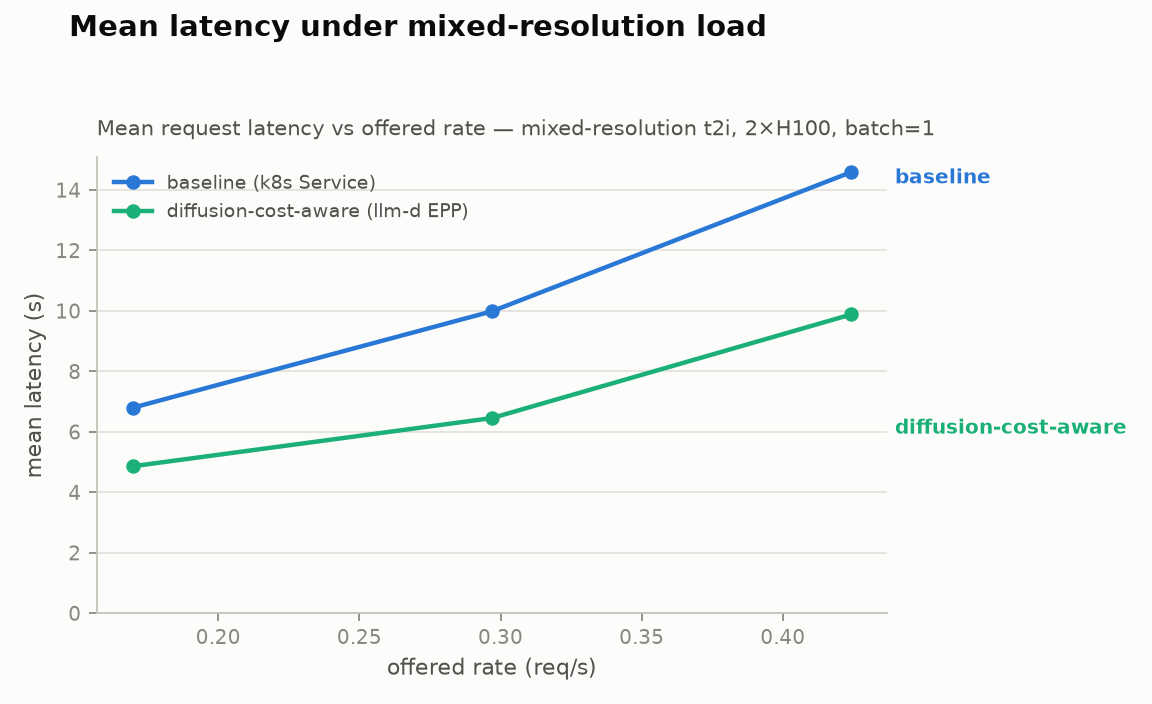
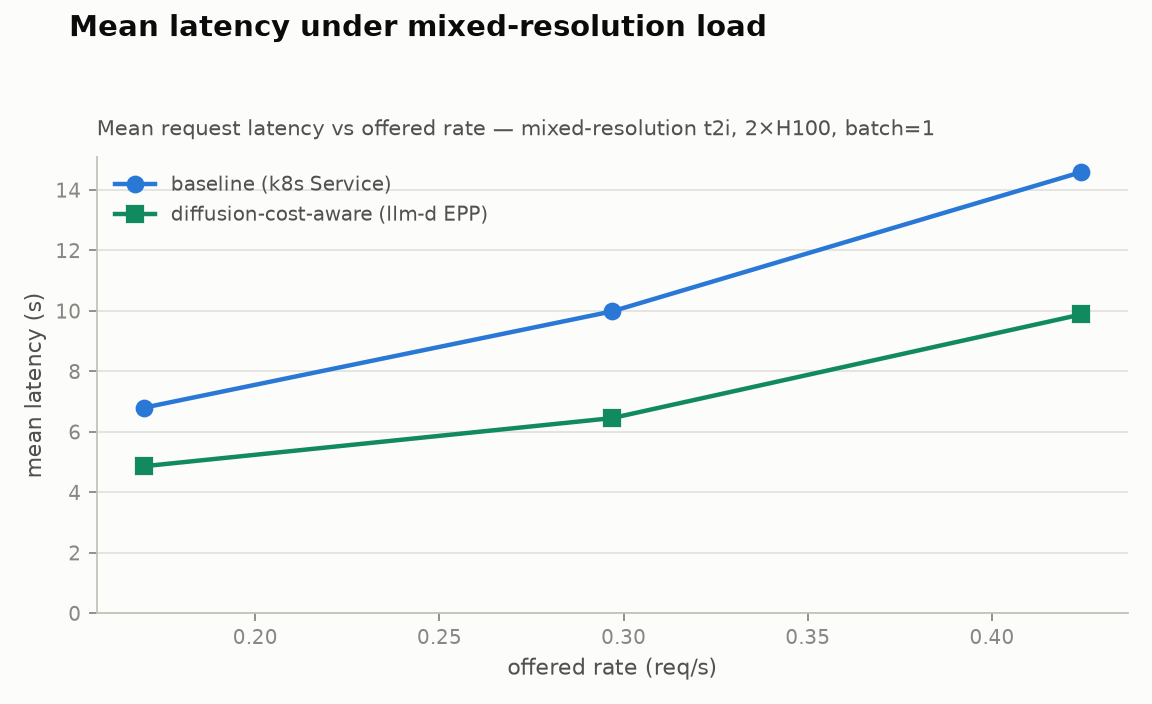
Simplify benchmark figures to two plain latency charts
Linear-scale p99 and mean latency lines with distinct markers per arm;
drop the min-max bands, end-point labels, log scale, and the per-pod
queue-depth figure (the timeseries stays in the raw CSVs).

diff --git a/guides/diffusion-serving/analysis/plot_results.py b/guides/diffusion-serving/analysis/plot_results.py
@@ -3,16 +3,14 @@
 
 Usage: python analysis/plot_results.py [results_dir]
 
-Reads results/<arm>/rate<frac>_rep<rep>.json (bench aggregates), the matching
-.meta files (offered rate, taint flag) and .csv files (per-pod queue-depth
-timeseries), and writes three figures into <results_dir>/figures/:
+Reads results/<arm>/rate<frac>_rep<rep>.json (bench aggregates) and the
+matching .meta files (offered rate, taint flag), and writes two figures into
+<results_dir>/figures/:
 
-  1_p99_latency.png    — p99 latency vs offered rate, log-y (the money plot)
+  1_p99_latency.png    — p99 latency vs offered rate (the money plot)
   2_mean_latency.png   — mean latency vs offered rate
-  3_queue_depth.png    — per-pod queue depth timeseries at the highest common
-                         rate, one panel per arm
 
-Multiple reps: solid line = median, shaded band = min-max.
+Multiple reps: the line is the median over untainted reps.
 """
 
 import json
@@ -23,7 +21,6 @@ from pathlib import Path
 
 import matplotlib.pyplot as plt
 import numpy as np
-from matplotlib.ticker import MaxNLocator
 
 # --- palette (reference dataviz palette, light mode) -------------------------
 SURFACE = "#fcfcfb"
@@ -32,14 +29,14 @@ INK_2 = "#52514e"
 MUTED = "#898781"
 GRID = "#e1e0d9"
 BASELINE = "#c3c2b7"
-# Arms = categorical identity, fixed slot order (blue, aqua).
-ARM_COLOR = {"baseline": "#2a78d6", "cost-aware": "#1baf7a"}
+# Arms = categorical identity, fixed slot order (blue, green); marker shape is
+# the secondary (non-color) encoding.
+ARM_COLOR = {"baseline": "#2a78d6", "cost-aware": "#128a5f"}
+ARM_MARKER = {"baseline": "o", "cost-aware": "s"}
 ARM_LABEL = {
     "baseline": "baseline (k8s Service)",
     "cost-aware": "diffusion-cost-aware (llm-d EPP)",
 }
-# Pods in the small multiples = one hue, stepped shades (blue 250/450/650).
-POD_SHADES = ["#86b6ef", "#2a78d6", "#104281"]
 
 FNAME_RE = re.compile(r"rate([0-9.]+)_rep(\d+)\.json$")
 
@@ -94,33 +91,6 @@ def series(data, arm, key):
     return np.array(rates), np.array(med), np.array(lo), np.array(hi)
 
 
-def direct_labels(ax, ends):
-    """Label each line at its end point, nudging collisions apart vertically.
-
-    ends: [(x, y, arm)] in data coords; y-collisions are resolved in axes
-    fraction space so it works on both linear and log axes.
-    """
-    to_frac = ax.transAxes.inverted().transform
-    to_disp = ax.transData.transform
-    labeled = sorted(ends, key=lambda e: to_frac(to_disp((e[0], e[1])))[1])
-    prev = None
-    for x, y, arm in labeled:
-        fy = to_frac(to_disp((x, y)))[1]
-        if prev is not None and fy - prev < 0.05:
-            fy = prev + 0.05
-        prev = fy
-        ax.annotate(
-            ARM_LABEL[arm].split(" (")[0],
-            (x, y),
-            xytext=(1.01, fy),
-            textcoords=ax.transAxes,
-            color=ARM_COLOR[arm],
-            fontsize=9,
-            fontweight="bold",
-            va="center",
-        )
-
-
 def new_fig(title, subtitle):
     fig, ax = plt.subplots(figsize=(7.2, 4.4), dpi=160)
     fig.patch.set_facecolor(SURFACE)
@@ -130,25 +100,18 @@ def new_fig(title, subtitle):
     return fig, ax
 
 
-def _plot_latency(data, outdir: Path, key, fname, title, subtitle, ylabel, log=False):
+def _plot_latency(data, outdir: Path, key, fname, title, subtitle, ylabel):
     fig, ax = new_fig(title, subtitle)
-    if log:
-        ax.set_yscale("log")
-    ends = []
     for arm in [a for a in ("baseline", "cost-aware") if a in data]:
-        rates, med, lo, hi = series(data, arm, key)
+        rates, med, _, _ = series(data, arm, key)
         if not len(rates):
             continue
-        ax.fill_between(rates, lo, hi, color=ARM_COLOR[arm], alpha=0.12, linewidth=0)
-        ax.plot(rates, med, color=ARM_COLOR[arm], linewidth=2, marker="o",
-                markersize=5.5, label=ARM_LABEL[arm])
-        ends.append((rates[-1], med[-1], arm))
-    direct_labels(ax, ends)
+        ax.plot(rates, med, color=ARM_COLOR[arm], linewidth=2,
+                marker=ARM_MARKER[arm], markersize=7, label=ARM_LABEL[arm])
     ax.set_xlabel("offered rate (req/s)", color=INK_2, fontsize=10)
     ax.set_ylabel(ylabel, color=INK_2, fontsize=10)
-    if not log:
-        ax.set_ylim(bottom=0)
-    ax.legend(frameon=False, fontsize=8.5, labelcolor=INK_2, loc="upper left")
+    ax.set_ylim(bottom=0)
+    ax.legend(frameon=False, fontsize=9, labelcolor=INK_2, loc="upper left")
     fig.tight_layout(rect=(0, 0, 1, 0.94))
     fig.savefig(outdir / fname, facecolor=SURFACE)
     plt.close(fig)
@@ -167,8 +130,8 @@ def plot_p99(data, outdir: Path, pool: str = "H100 pool"):
     _plot_latency(
         data, outdir, "latency_p99", "1_p99_latency.png",
         "Cost-aware routing cuts tail latency",
-        f"p99 request latency vs offered rate (log scale) — mixed-resolution t2i, {pool}, batch=1",
-        "p99 latency (s)", log=True,
+        f"p99 request latency vs offered rate — mixed-resolution t2i, {pool}, batch=1",
+        "p99 latency (s)",
     )
 
 
@@ -181,55 +144,6 @@ def plot_mean(data, outdir: Path, pool: str = "H100 pool"):
     )
 
 
-def plot_queues(data, results_dir: Path, outdir: Path):
-    arms = [a for a in ("baseline", "cost-aware") if a in data]
-    if not arms:
-        return
-    common = set.intersection(*(set(data[a]) for a in arms))
-    if not common:
-        return
-    rate = max(common)
-    fig, axes = plt.subplots(len(arms), 1, figsize=(7.2, 1.9 * len(arms) + 1.2),
-                             dpi=160, sharex=True)
-    fig.patch.set_facecolor(SURFACE)
-    axes = np.atleast_1d(axes)
-    fig.suptitle("Per-pod backlog: does routing keep the pods evenly busy?",
-                 x=0.06, ha="left", fontsize=13, fontweight="bold", color=INK)
-    for ax, arm in zip(axes, arms):
-        style_axes(ax)
-        rep, _, _ = sorted(data[arm][rate])[0]
-        # Recover the file-name fraction for this offered rate.
-        csvs = [c for c in (results_dir / arm).glob(f"rate*_rep{rep}.csv")
-                if _meta_rate(c.with_suffix(".meta")) == rate]
-        if not csvs:
-            ax.set_visible(False)
-            continue
-        rows = [ln.split(",") for ln in csvs[0].read_text().splitlines()[1:] if ln]
-        pods = sorted({r[1] for r in rows})
-        t0 = min(float(r[0]) for r in rows)
-        for i, pod in enumerate(pods[: len(POD_SHADES)]):
-            pts = [(float(r[0]) - t0, float(r[2]) + float(r[3])) for r in rows if r[1] == pod]
-            xs, ys = zip(*pts)
-            ax.plot(xs, ys, color=POD_SHADES[i], linewidth=2, label=f"pod {i}")
-        ax.set_ylabel("in-flight + queued", color=INK_2, fontsize=8.5)
-        ax.yaxis.set_major_locator(MaxNLocator(integer=True))
-        ax.set_title(f"{ARM_LABEL[arm]}  ·  {rate:g} req/s", loc="left",
-                     fontsize=9.5, color=INK_2)
-        if ax is axes[0]:
-            ax.legend(frameon=False, fontsize=8.5, labelcolor=INK_2, loc="upper left")
-    axes[-1].set_xlabel("time since sweep start (s)", color=INK_2, fontsize=10)
-    fig.tight_layout(rect=(0, 0, 1, 0.95))
-    fig.savefig(outdir / "3_queue_depth.png", facecolor=SURFACE)
-    plt.close(fig)
-
-
-def _meta_rate(meta: Path):
-    if not meta.exists():
-        return None
-    m = re.search(r"\brate=([0-9.]+)", meta.read_text())
-    return float(m.group(1)) if m else None
-
-
 def main() -> None:
     results_dir = Path(sys.argv[1]) if len(sys.argv) > 1 else Path(__file__).parent.parent / "results"
     data = load(results_dir)
@@ -240,7 +154,6 @@ def main() -> None:
     pool = pool_desc(results_dir)
     plot_p99(data, outdir, pool)
     plot_mean(data, outdir, pool)
-    plot_queues(data, results_dir, outdir)
     print(f"figures written to {outdir}/")
     for arm in data:
         rates = sorted(data[arm])

diff --git a/guides/diffusion-serving/analysis/generate_report.py b/guides/diffusion-serving/analysis/generate_report.py
@@ -3,7 +3,7 @@
 
 Usage: python analysis/generate_report.py [results_dir]
 
-Renders the three figures (via plot_results.py) and writes a self-contained
+Renders the two figures (via plot_results.py) and writes a self-contained
 markdown report with:
   - run configuration (calibration, capacity)
   - headline latency comparison (p99/mean A vs B per rate, with reductions)
@@ -78,7 +78,6 @@ def main() -> None:
     pool = plot_results.pool_desc(results_dir)
     plot_results.plot_p99(data, outdir, pool)
     plot_results.plot_mean(data, outdir, pool)
-    plot_results.plot_queues(data, results_dir, outdir)
 
     # Calibration lives at the results/ root (shared across runs); a run dir
     # sits one level below it.
@@ -151,7 +150,6 @@ def main() -> None:
         md += [f"## {plot_results.ARM_LABEL.get(arm, arm)}", "", arm_table(data, arm), ""]
 
     md += [
-        "![per-pod backlog](figures/3_queue_depth.png)",
         "",
         "## Notes",
         "",

diff --git a/guides/diffusion-serving/results/quick-dataset-c-20260714-2337/REPORT.md b/guides/diffusion-serving/results/quick-dataset-c-20260714-2337/REPORT.md
@@ -1,11 +1,11 @@
 # Cost-aware routing benchmark — report
 
-Generated 2026-07-15 00:00 UTC. Workload: **dataset_c.json** (mixed-resolution t2i, see `workloads/`). Pool: 3×H100 running `Qwen/Qwen-Image`, batch=1. Run: `preset=quick workload=dataset_c.json replicas=3 started=2026-07-14T23:37:48+00:00`.
+Generated 2026-07-16 19:21 UTC. Workload: **dataset_c.json** (mixed-resolution t2i, see `workloads/`). Pool: 3×H100 running `Qwen/Qwen-Image`, batch=1. Run: `preset=quick workload=dataset_c.json replicas=3 started=2026-07-14T23:37:48+00:00`.
 
 | arm | routing policy |
 |---|---|
-| A | A · baseline (k8s Service) |
-| B | B · cost-aware scorer |
+| baseline | baseline (k8s Service) |
+| cost-aware | diffusion-cost-aware (llm-d EPP) |
 
 ## Calibration
 
@@ -23,7 +23,7 @@ Mixed mean service time S_mix = **4.71 s** → 3-pod capacity ≈ **0.636 req/s*
 Median over repetitions; both arms replay the identical request
 sequence and arrival timeline, so rows are directly comparable.
 
-| offered rate (req/s) | p99 A → B (s) | p99 reduction | mean A → B (s) | mean reduction |
+| offered rate (req/s) | p99 baseline → cost-aware (s) | p99 reduction | mean baseline → cost-aware (s) | mean reduction |
 |---|---|---|---|---|
 | 0.2545 | 27.5 → 14.7 | **46%** | 6.0 → 4.4 | 26% |
 | 0.4454 | 24.7 → 16.8 | **32%** | 6.9 → 5.4 | 22% |
@@ -33,7 +33,7 @@ sequence and arrival timeline, so rows are directly comparable.
 
 ![mean latency vs offered rate](figures/2_mean_latency.png)
 
-## Arm A — A · baseline (k8s Service)
+## baseline (k8s Service)
 
 | offered rate (req/s) | reps | p99 latency s (median) | p95 latency s | mean latency s | throughput req/s | failed | tainted |
 |---|---|---|---|---|---|---|---|
@@ -41,7 +41,7 @@ sequence and arrival timeline, so rows are directly comparable.
 | 0.4454 | 1 | 24.7 | 18.6 | 6.9 | 0.441 |  |  |
 | 0.6363 | 1 | 32.0 | 25.1 | 13.0 | 0.543 |  |  |
 
-## Arm B — B · cost-aware scorer
+## diffusion-cost-aware (llm-d EPP)
 
 | offered rate (req/s) | reps | p99 latency s (median) | p95 latency s | mean latency s | throughput req/s | failed | tainted |
 |---|---|---|---|---|---|---|---|
@@ -49,7 +49,6 @@ sequence and arrival timeline, so rows are directly comparable.
 | 0.4454 | 1 | 16.8 | 14.4 | 5.4 | 0.460 |  |  |
 | 0.6363 | 1 | 22.9 | 17.9 | 7.4 | 0.614 |  |  |
 
-![per-pod backlog](figures/3_queue_depth.png)
 
 ## Notes
 

diff --git a/guides/diffusion-serving/README.md b/guides/diffusion-serving/README.md
@@ -74,12 +74,9 @@ The cost-aware numbers include the EPP/ext-proc hop that the baseline doesn't pa
 Load-aware routing usually does **not** raise peak throughput — the wins to
 look for are:
 
-- **p99 latency vs offered rate** (the money plot, log scale): tail latency
-  is where cost-blind routing hurts — short requests stuck behind whales.
+- **p99 latency vs offered rate** (the money plot): tail latency is where
+  cost-blind routing hurts — short requests stuck behind whales.
 - **Mean latency vs offered rate**: the average user experience.
-- **Per-pod backlog evenness** (`vllm_omni:num_requests_running+waiting`
-  timeseries): the baseline shows one pod piling up work while the other
-  idles; cost-aware routing should keep the lines close.
 
 The load generator is vLLM-Omni's own
 `benchmarks/diffusion/diffusion_benchmark_serving.py` (latency percentiles
@@ -167,8 +164,6 @@ Dataset C:
 
 ![mean latency vs offered rate, dataset C](results/quick-3rep-dataset-c/figures/2_mean_latency.png)
 
-![per-pod backlog, dataset C](results/quick-3rep-dataset-c/figures/3_queue_depth.png)
-
 Bimodal:
 
 | offered rate (req/s) | p99 baseline → cost-aware (s) | p99 reduction | mean baseline → cost-aware (s) | mean reduction |
@@ -180,8 +175,6 @@ Bimodal:
 ![p99 latency vs offered rate, bimodal](results/bimodal-quick-1/figures/1_p99_latency.png)
 
 ![mean latency vs offered rate, bimodal](results/bimodal-quick-1/figures/2_mean_latency.png)
-
-![per-pod backlog, bimodal](results/bimodal-quick-1/figures/3_queue_depth.png)
 
 At 100% of capacity on Dataset C the p99s converge: at saturation every pod is always busy, so there is no routing freedom left — the mean is still 11% better. On the bimodal mix cost-aware routing also sustains 16% more goodput at the highest rate (0.601 vs 0.517 req/s), because random routing wastes capacity when whole pods idle behind a whale pileup.
 

diff --git a/guides/diffusion-serving/BENCHMARK_REPORT.md b/guides/diffusion-serving/BENCHMARK_REPORT.md
@@ -114,8 +114,6 @@ The following data compares the two routing policies across increasing offered r
 
 ![mean latency vs offered rate, dataset C](results/quick-3rep-dataset-c/figures/2_mean_latency.png)
 
-![per-pod backlog, dataset C](results/quick-3rep-dataset-c/figures/3_queue_depth.png)
-
 ### Bimodal (thumbnails + whales, worst case for cost-blind routing)
 
 | Metric | Routing | 0.25 req/s | 0.45 req/s | 0.64 req/s |
@@ -133,8 +131,6 @@ The following data compares the two routing policies across increasing offered r
 
 ![mean latency vs offered rate, bimodal](results/bimodal-quick-1/figures/2_mean_latency.png)
 
-![per-pod backlog, bimodal](results/bimodal-quick-1/figures/3_queue_depth.png)
-
 ## Technical Conclusion
 
 1. Tail latency (P99)
@@ -143,7 +139,7 @@ Observation: Cost-aware routing cuts P99 latency by 23-37% on Dataset C below ca
 
 2. Mean latency
 
-Observation: Mean latency improves 11-40% on Dataset C and 35-43% on bimodal. The mechanism is visible in the per-pod backlog timeseries: with random routing one pod occasionally stacks several large requests while another drains empty; the cost-aware scorer keeps the per-pod backlog lines close together.
+Observation: Mean latency improves 11-40% on Dataset C and 35-43% on bimodal. The mechanism is visible in the per-pod backlog timeseries recorded in the raw results (`.csv` per point): with random routing one pod occasionally stacks several large requests while another drains empty; the cost-aware scorer keeps the per-pod backlogs close together.
 
 3. Throughput
 

diff --git a/guides/diffusion-serving/results/bimodal-quick-1/REPORT.md b/guides/diffusion-serving/results/bimodal-quick-1/REPORT.md
@@ -1,6 +1,6 @@
 # Cost-aware routing benchmark — report
 
-Generated 2026-07-16 19:02 UTC. Workload: **dataset_bimodal.json** (mixed-resolution t2i, see `workloads/`). Pool: 3×H100 running `Qwen/Qwen-Image`, batch=1. Run: `preset=quick workload=dataset_bimodal.json replicas=3 started=2026-07-15T00:20:45+00:00`.
+Generated 2026-07-16 19:20 UTC. Workload: **dataset_bimodal.json** (mixed-resolution t2i, see `workloads/`). Pool: 3×H100 running `Qwen/Qwen-Image`, batch=1. Run: `preset=quick workload=dataset_bimodal.json replicas=3 started=2026-07-15T00:20:45+00:00`.
 
 | arm | routing policy |
 |---|---|
@@ -49,7 +49,6 @@ sequence and arrival timeline, so rows are directly comparable.
 | 0.4454 | 1 | 20.4 | 19.7 | 4.9 | 0.438 |  |  |
 | 0.6363 | 1 | 21.7 | 20.1 | 5.5 | 0.601 |  |  |
 
-![per-pod backlog](figures/3_queue_depth.png)
 
 ## Notes
 

diff --git a/guides/diffusion-serving/results/quick-3rep-dataset-c/REPORT.md b/guides/diffusion-serving/results/quick-3rep-dataset-c/REPORT.md
@@ -1,6 +1,6 @@
 # Cost-aware routing benchmark — report
 
-Generated 2026-07-16 19:02 UTC. Workload: **dataset_c.json** (mixed-resolution t2i, see `workloads/`). Pool: 3×H100 running `Qwen/Qwen-Image`, batch=1. Run: `preset=quick workload=dataset_c.json replicas=3 started=2026-07-14T22:00:00+00:00`.
+Generated 2026-07-16 19:20 UTC. Workload: **dataset_c.json** (mixed-resolution t2i, see `workloads/`). Pool: 3×H100 running `Qwen/Qwen-Image`, batch=1. Run: `preset=quick workload=dataset_c.json replicas=3 started=2026-07-14T22:00:00+00:00`.
 
 | arm | routing policy |
 |---|---|
@@ -49,7 +49,6 @@ sequence and arrival timeline, so rows are directly comparable.
 | 0.4454 | 1 | 17.0 | 14.2 | 5.3 | 0.460 |  |  |
 | 0.6363 | 1 | 21.3 | 17.9 | 7.7 | 0.614 |  |  |
 
-![per-pod backlog](figures/3_queue_depth.png)
 
 ## Notes
 

diff --git a/guides/diffusion-serving/results/2rep/REPORT.md b/guides/diffusion-serving/results/2rep/REPORT.md
@@ -1,6 +1,6 @@
 # Cost-aware routing benchmark — report
 
-Generated 2026-07-16 19:11 UTC. Workload: **dataset_c.json** (mixed-resolution t2i, see `workloads/`). Pool: 2×H100 running `Qwen/Qwen-Image`, batch=1.
+Generated 2026-07-16 19:20 UTC. Workload: **dataset_c.json** (mixed-resolution t2i, see `workloads/`). Pool: 2×H100 running `Qwen/Qwen-Image`, batch=1.
 
 | arm | routing policy |
 |---|---|
@@ -49,7 +49,6 @@ sequence and arrival timeline, so rows are directly comparable.
 | 0.2969 | 1 | 23.5 | 14.3 | 6.5 | 0.315 |  |  |
 | 0.4242 | 1 | 29.1 | 24.0 | 9.9 | 0.414 |  |  |
 
-![per-pod backlog](figures/3_queue_depth.png)
 
 ## Notes
 
